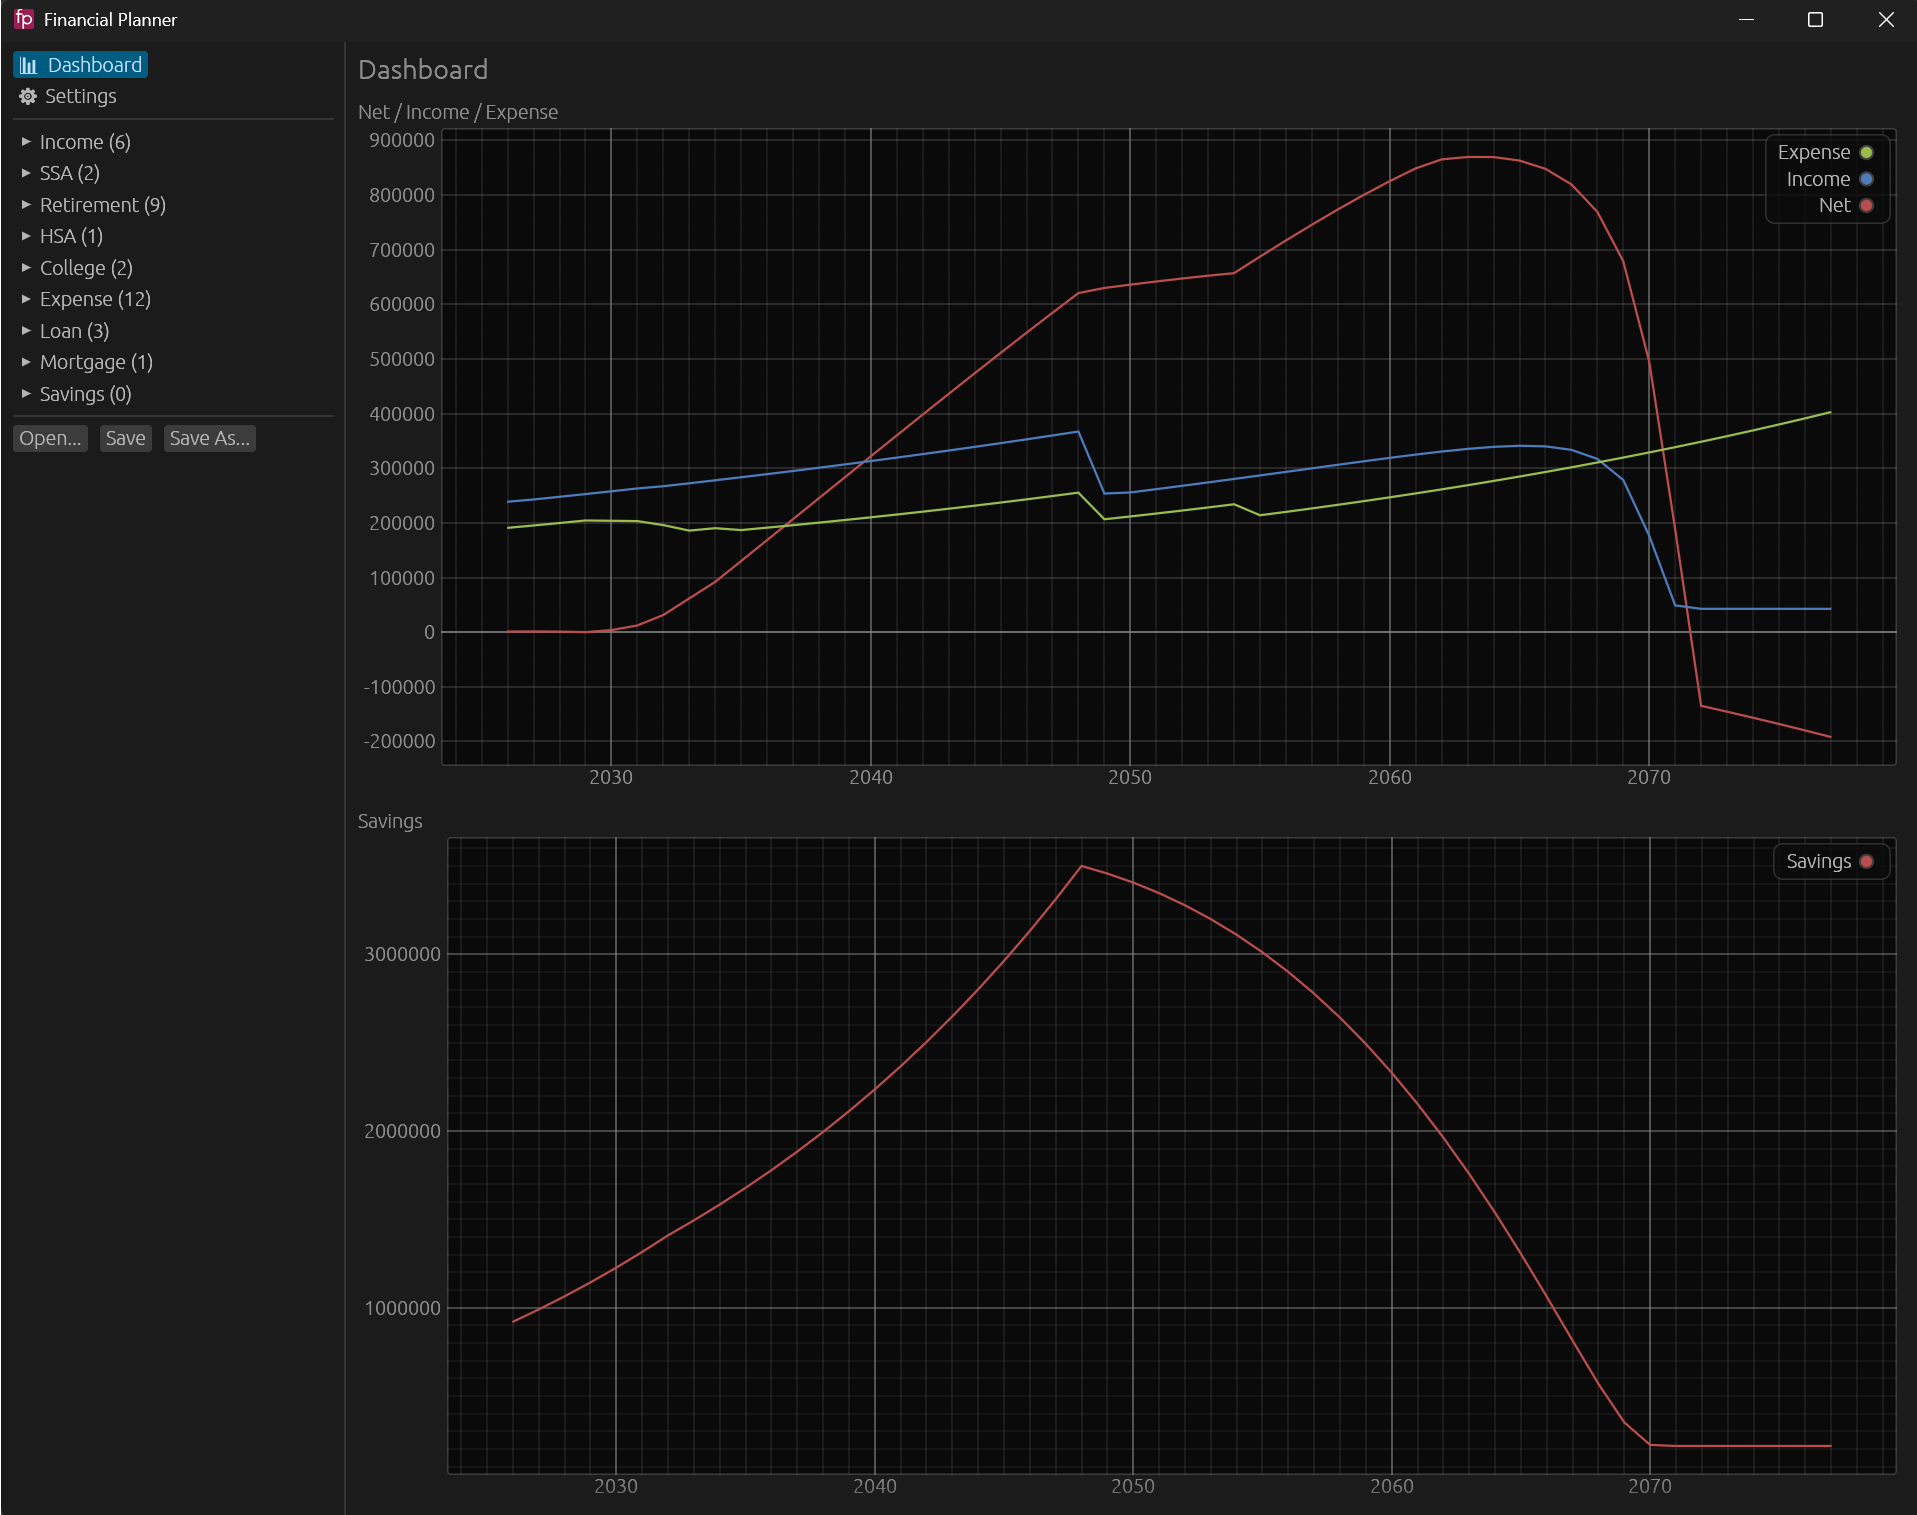
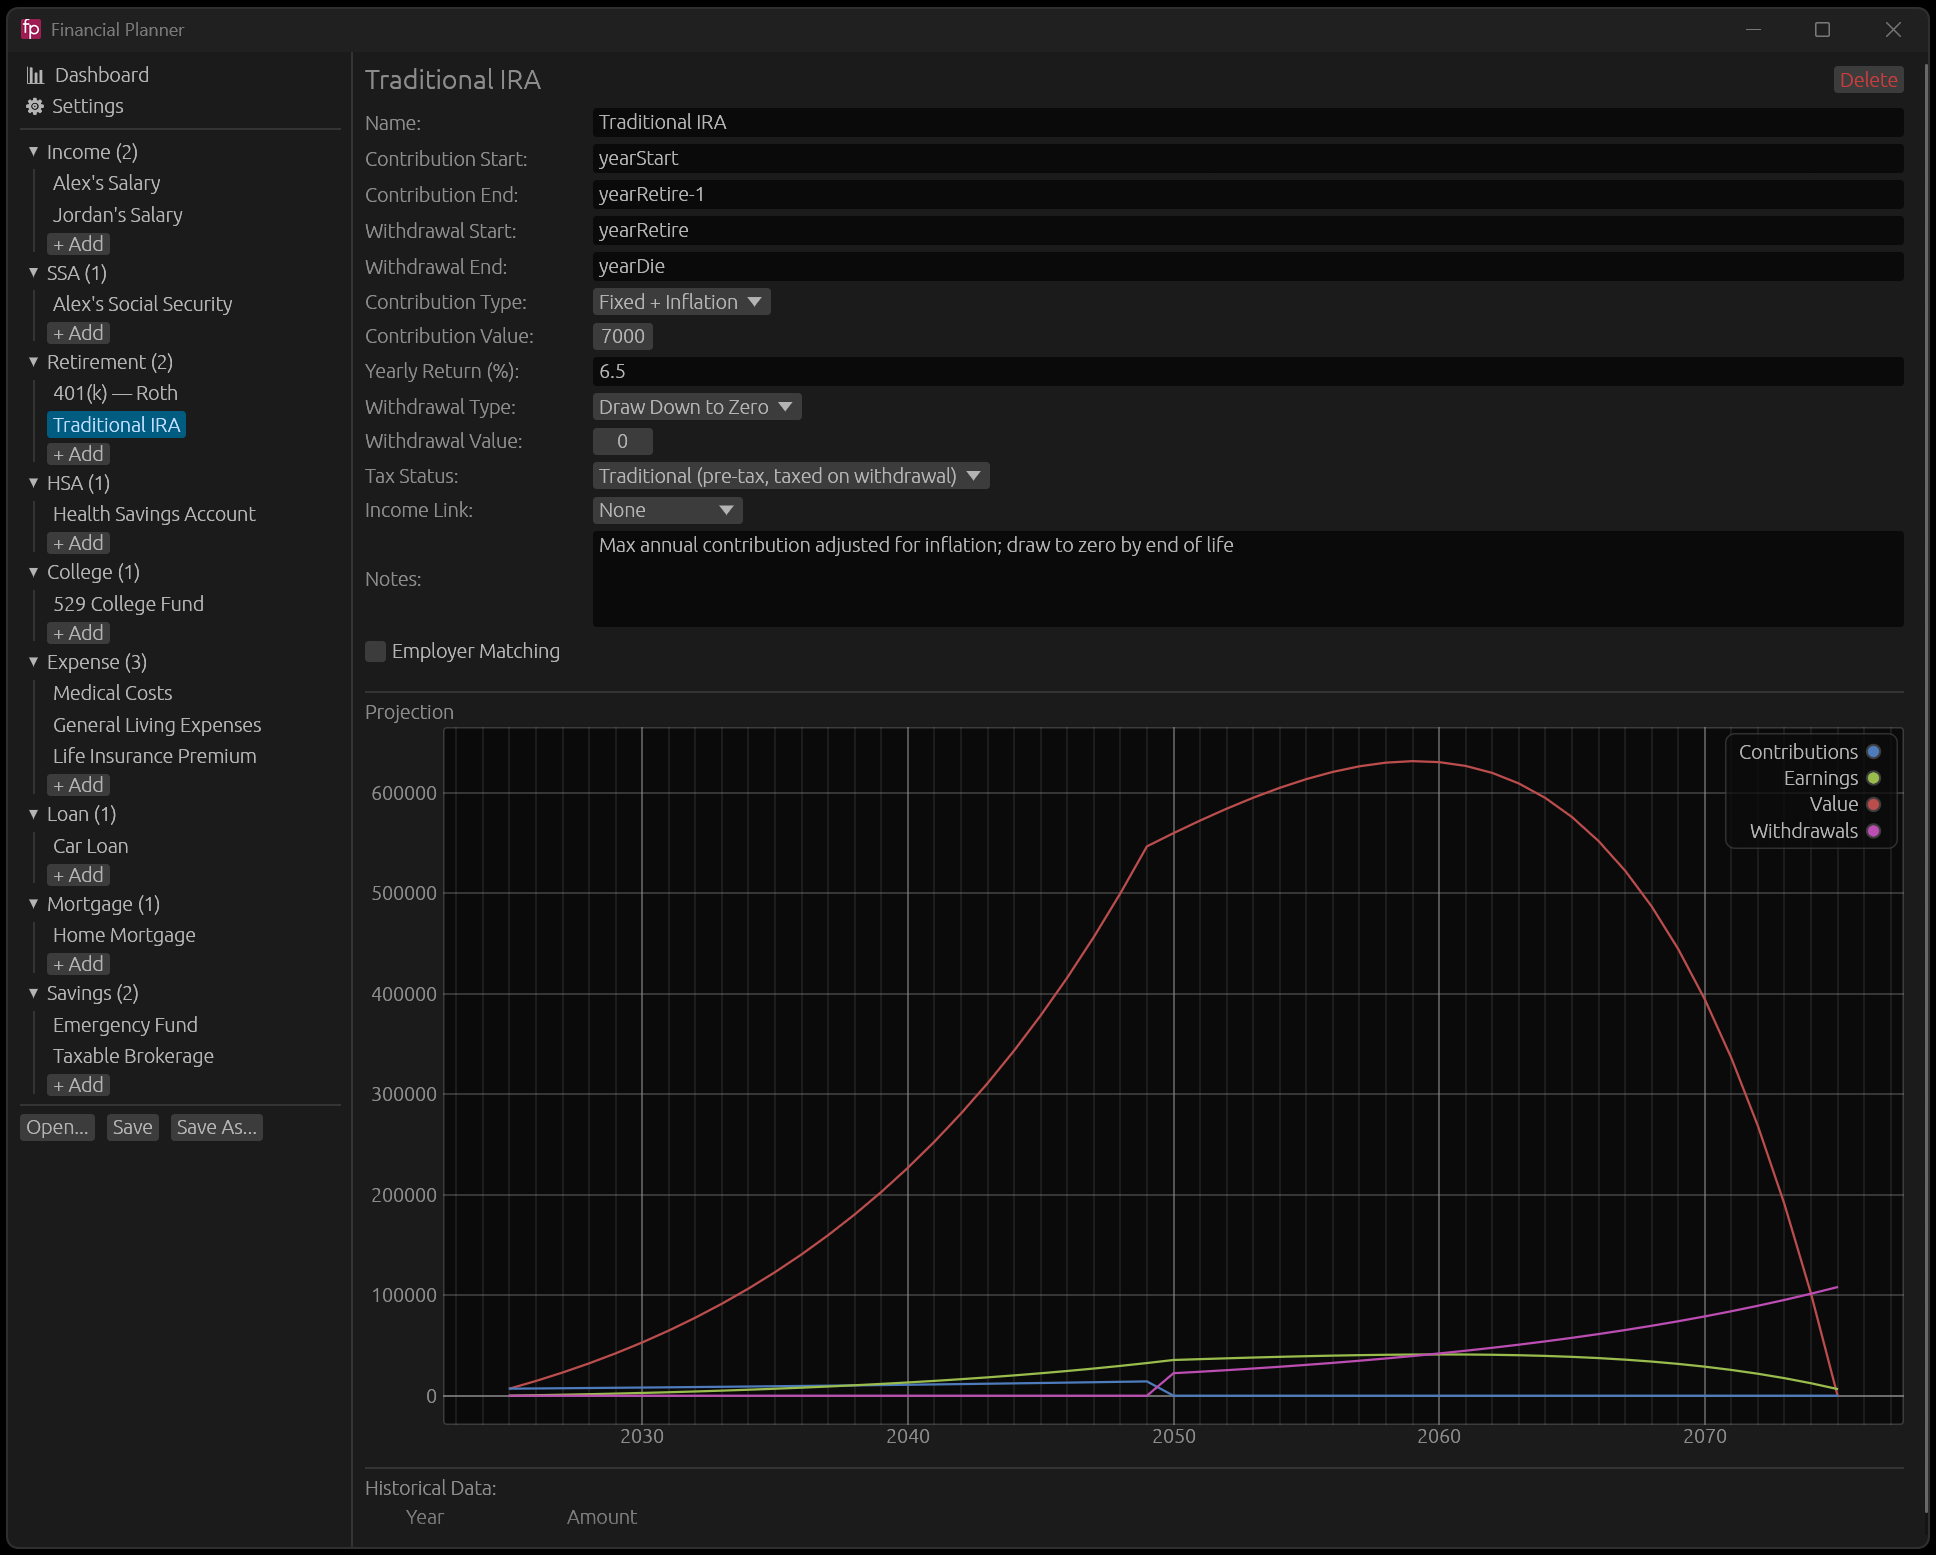
chart bug fix

diff --git a/accounts/src/simulation/totals.rs b/accounts/src/simulation/totals.rs
@@ -37,8 +37,10 @@ pub struct YearlyTotals {
     pub net: Table<u32>,
     /// total expenses for a year
     pub expense: Table<u32>,
-    /// total healthcare costs that have not been paid (these are paid for with HSA dollars first)
+    /// outstanding healthcare costs not yet paid (zeroed each year after HSA + net settlement)
     pub healthcare_expense: Table<u32>,
+    /// gross healthcare costs for the year before HSA/net settlement — use this for reporting
+    pub healthcare_expense_total: Table<u32>,
     /// cost of living
     pub col: Table<u32>,
     /// total value of all savings accounts (the value of this account rolls over from year to year)
@@ -70,6 +72,7 @@ impl YearlyTotals {
                 self.net.insert(year, 0_f64);
                 self.expense.insert(year, 0_f64);
                 self.healthcare_expense.insert(year, 0_f64);
+                self.healthcare_expense_total.insert(year, 0_f64);
                 self.col.insert(year, 0_f64);
                 self.saving.insert(year, 0_f64);
                 self.hsa.insert(year, 0_f64);
@@ -103,6 +106,10 @@ impl YearlyTotals {
                 self.expense.update(year, update.expense);
                 self.healthcare_expense
                     .update(year, update.healthcare_expense);
+                if update.healthcare_expense > 0.0 {
+                    self.healthcare_expense_total
+                        .update(year, update.healthcare_expense);
+                }
                 self.col.update(year, update.col);
                 self.saving.update(year, update.saving);
                 self.hsa.update(year, update.hsa);

diff --git a/egui/src/dashboard.rs b/egui/src/dashboard.rs
@@ -13,7 +13,7 @@ pub fn show(app: &FpApp, ui: &mut eframe::egui::Ui) {
         let years_expense = totals.expense.years();
         let years_saving = totals.saving.years();
         let years_col = totals.col.years();
-        let years_hc = totals.healthcare_expense.years();
+        let years_hc = totals.healthcare_expense_total.years();
         let years_tax = totals.tax_burden.years();
 
         let vals_net = totals.net.values();
@@ -21,7 +21,7 @@ pub fn show(app: &FpApp, ui: &mut eframe::egui::Ui) {
         let vals_expense = totals.expense.values();
         let vals_saving = totals.saving.values();
         let vals_col = totals.col.values();
-        let vals_hc = totals.healthcare_expense.values();
+        let vals_hc = totals.healthcare_expense_total.values();
         let vals_tax = totals.tax_burden.values();
 
         let make_points = |years: &[u32], vals: &[f64]| -> PlotPoints {
